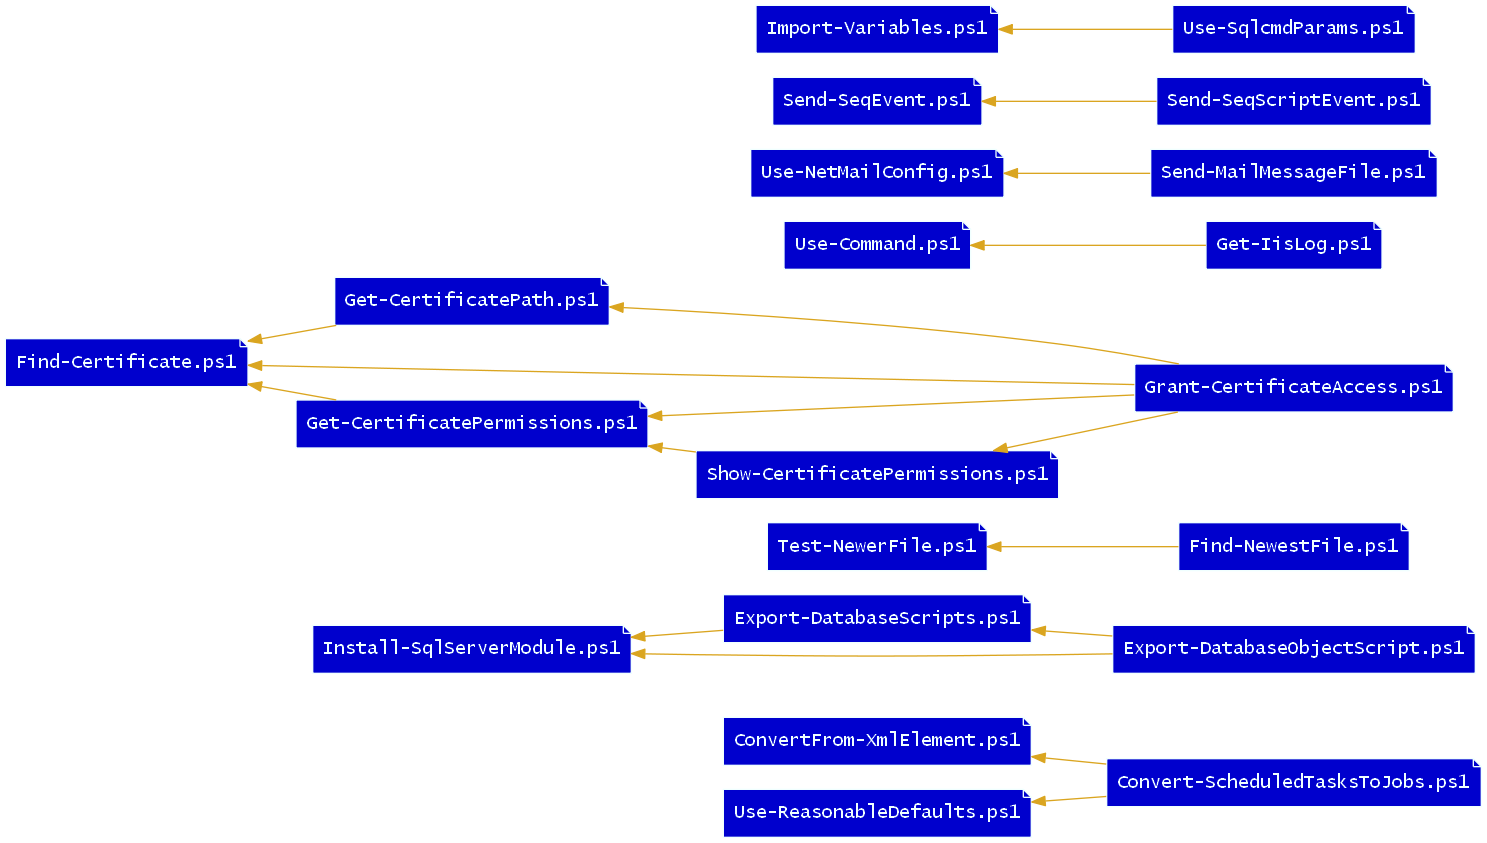
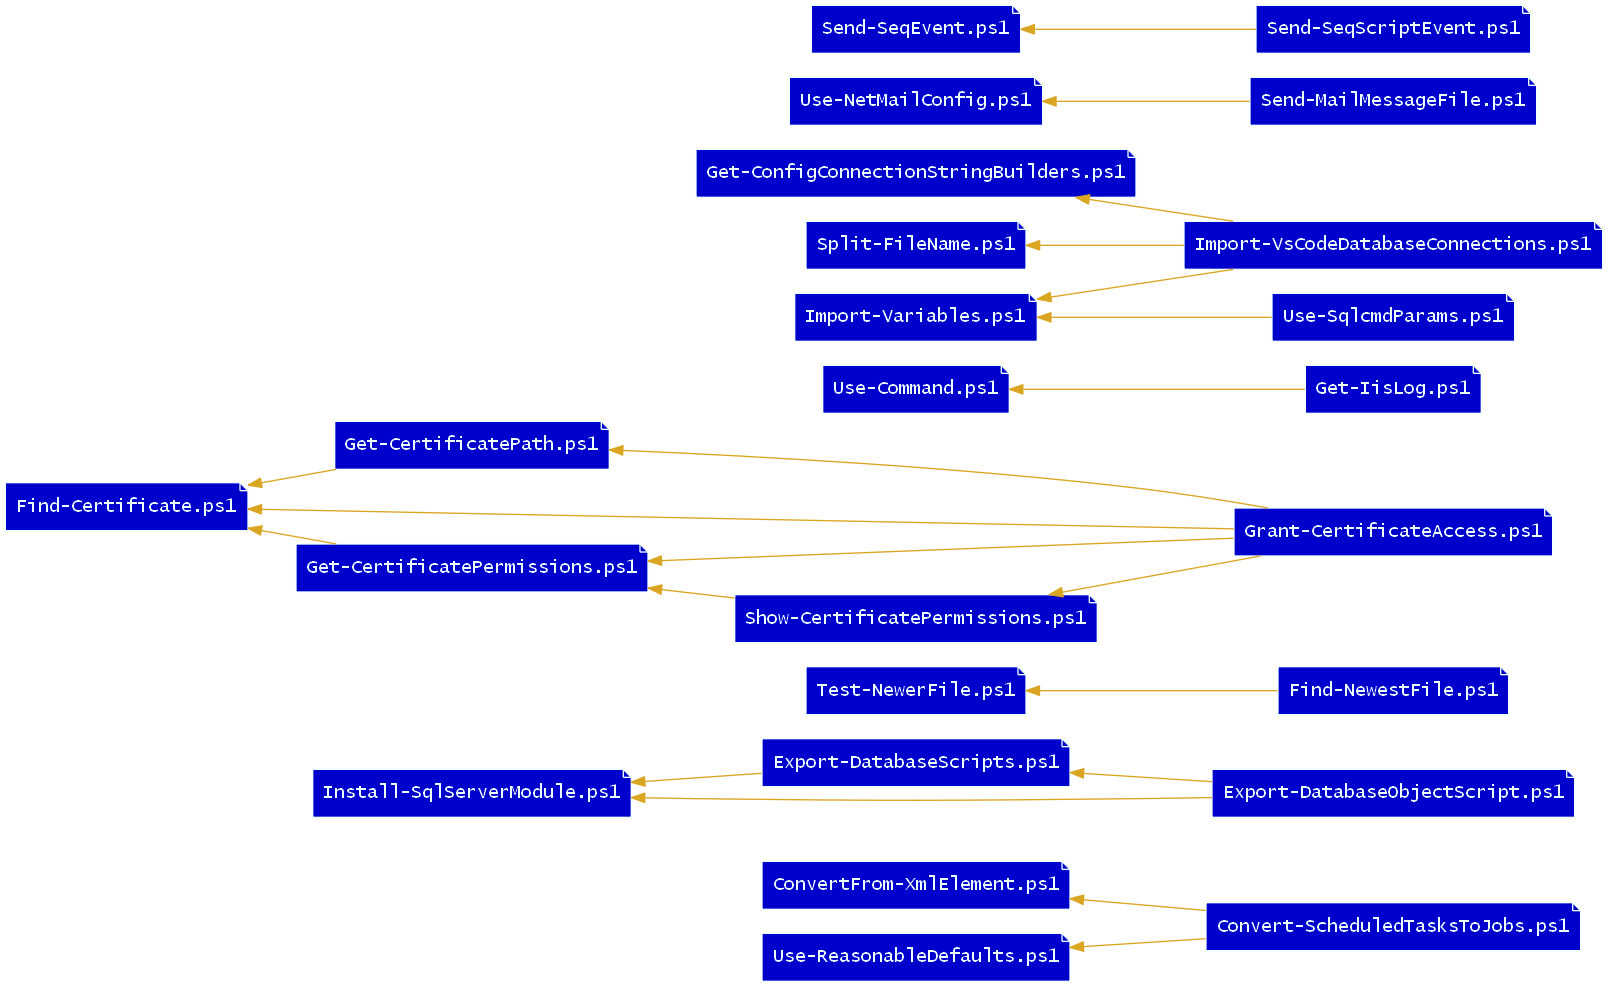
Update README

Changed region(s): [[0.0, 0.0, 1.0, 1.0]]

diff --git a/ExampleEmailReport.html b/ExampleEmailReport.html
@@ -122,7 +122,7 @@ With VS installed, you should be able to unzip
 <td class="snippet"><pre class="fssnip highlighted"><code lang="fsharp"><span class="c">/// Use the SQL Server Type Provider to define a type-safe query for the top products (by $ amount)</span>
 <span class="c">/// summary order amount statistics by date.</span>
 [&lt;<span onmouseout="hideTip(event, 'fs21', 45)" onmouseover="showTip(event, 'fs21', 45)" class="t">Literal</span>&gt;]
-<span class="k">let</span> <span onmouseout="hideTip(event, 'fs22', 46)" onmouseover="showTip(event, 'fs22', 46)" class="i">ConnStr</span> <span class="o">=</span> <span class="s">&quot;server=(localdb)\ProjectsV13;database=AdventureWorks2014;integrated security=SSPI&quot;</span>
+<span class="k">let</span> <span onmouseout="hideTip(event, 'fs22', 46)" onmouseover="showTip(event, 'fs22', 46)" class="i">ConnStr</span> <span class="o">=</span> <span class="s">@&quot;server=(localdb)\ProjectsV13;database=AdventureWorks2014;integrated security=SSPI&quot;</span>
 <span class="k">type</span> <span onmouseout="hideTip(event, 'fs23', 47)" onmouseover="showTip(event, 'fs23', 47)" class="t">OrderCmd</span> <span class="o">=</span> <span class="i">SqlCommandProvider</span><span class="o">&lt;</span><span class="s">&quot;</span>
 <span class="s">select p.Name, p.ProductID, o.OrderDate, sum(od.LineTotal) Total, </span>
 <span class="s">       min(od.LineTotal) MinAmt, max(od.LineTotal) MaxAmt, </span>

diff --git a/README.md b/README.md
@@ -49,6 +49,7 @@ PowerShell Scripts
 - **[Get-TypeAccelerators.ps1](Get-TypeAccelerators.ps1)**: Returns the list of PowerShell type accelerators.
 - **[Grant-CertificateAccess.ps1](Grant-CertificateAccess.ps1)**: Grants certificate file read access to an app pool or user.
 - **[Import-Variables.ps1](Import-Variables.ps1)**: Creates local variables from a data row or dictionary (hashtable).
+- **[Import-VsCodeDatabaseConnections.ps1](Import-VsCodeDatabaseConnections.ps1)**: Adds config XDT connection strings to VSCode settings.
 - **[Install-ActiveDirectoryModule.ps1](Install-ActiveDirectoryModule.ps1)**: Installs the PowerShell ActiveDirectory module.
 - **[Install-SqlServerModule.ps1](Install-SqlServerModule.ps1)**: Installs SqlServer module and dependencies.
 - **[Join-FileName.ps1](Join-FileName.ps1)**: Combines a filename with a string.
@@ -94,4 +95,4 @@ Office VBA Scripts
 - **[OutlookPasteFormattedIndented.vba](OutlookPasteFormattedIndented.vba)**: Outlook will strip single-space indents when displaying emails. If you've got, for example, syntax highlighted source code that employs any indentation of only one space, you'll want to add two spaces to the each line (adding one will not appear for text that isn't indented). This Outlook script will paste formatted text, and indent it. Requires Tools -> References -> Microsoft Word 14.0 Object Library (later versions may also work) 
 - **[OutlookPasteTsvTable.vba](OutlookPasteTsvTable.vba)**: This Outlook VBA Sub can be connected to a toolbar button for pasting TSV data as an attractive, formatted table. -BL Requires Tools -> References -> Microsoft Word 14.0 Object Library (later versions may also work) 
 
-<!-- generated 11/20/2017 21:54:19 -->
+<!-- generated 11/29/2017 11:18:27 -->
